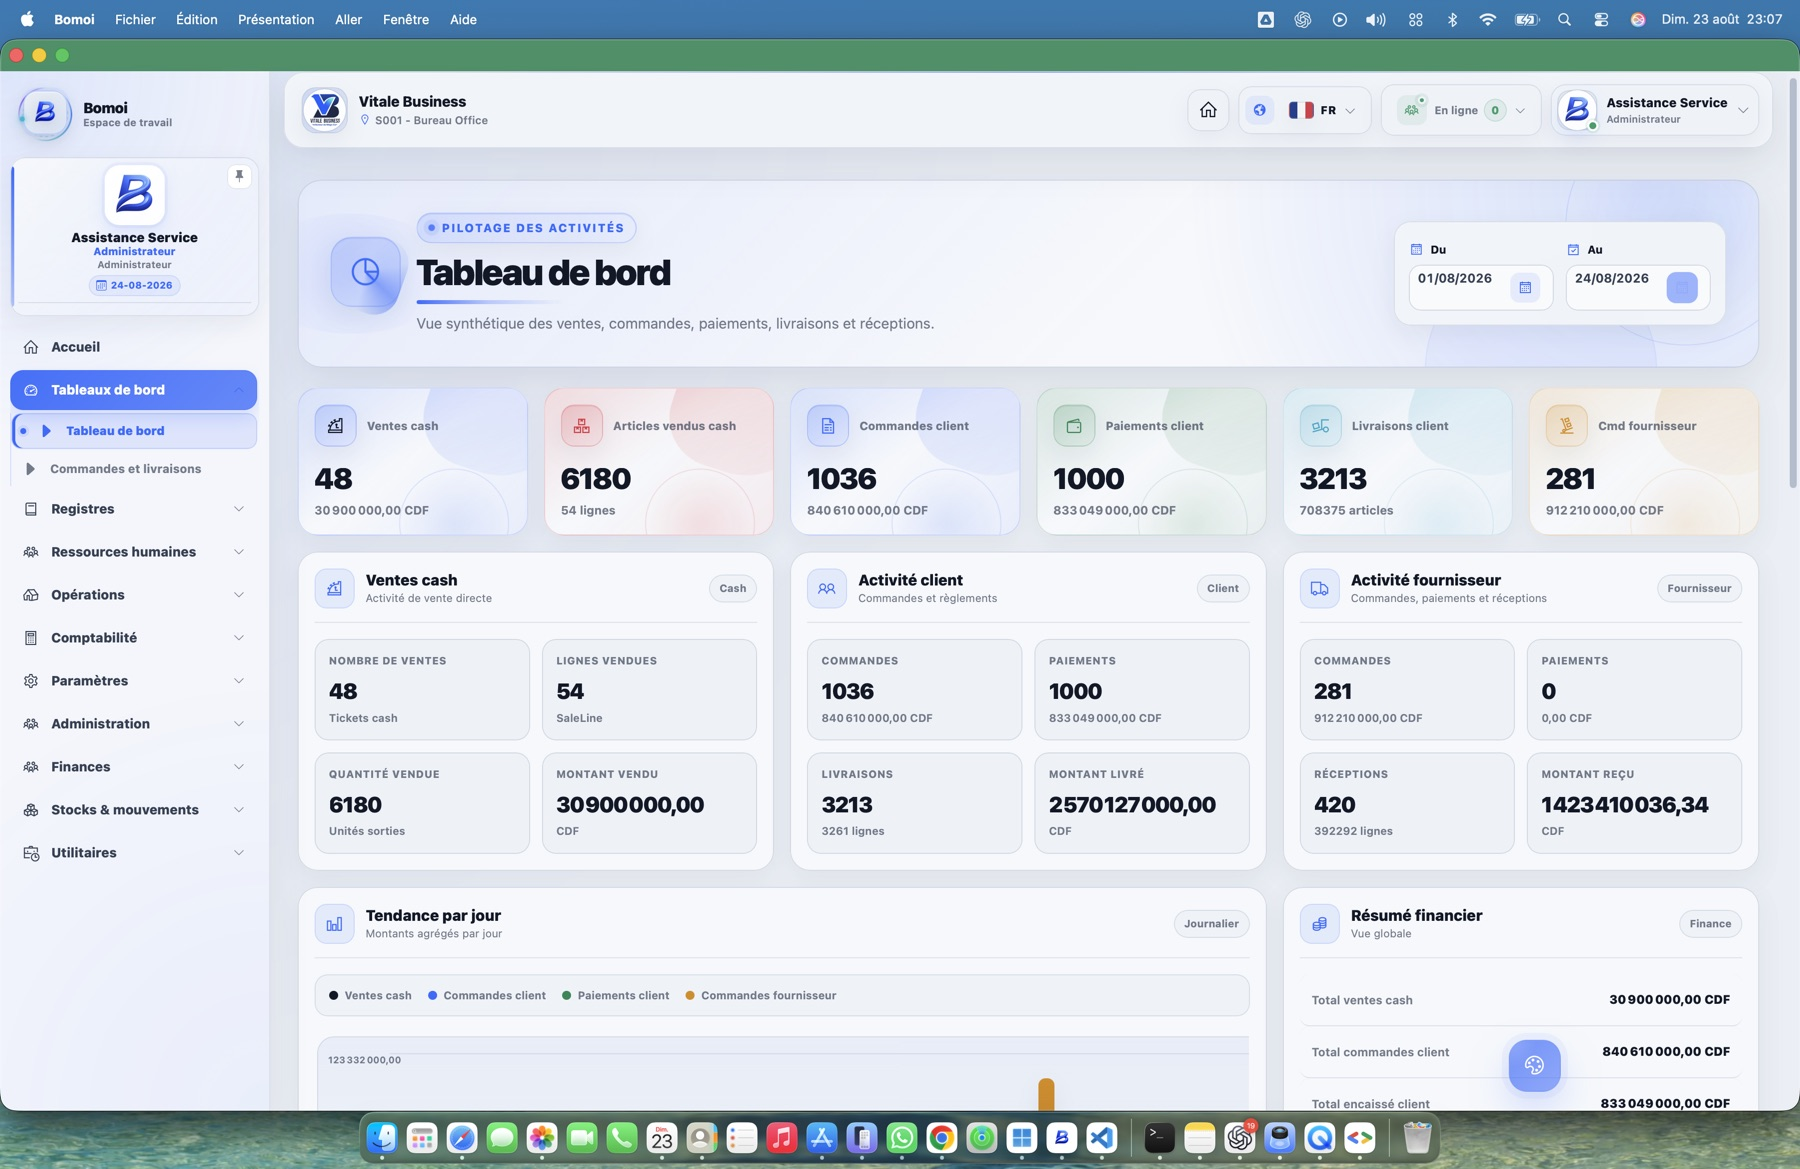
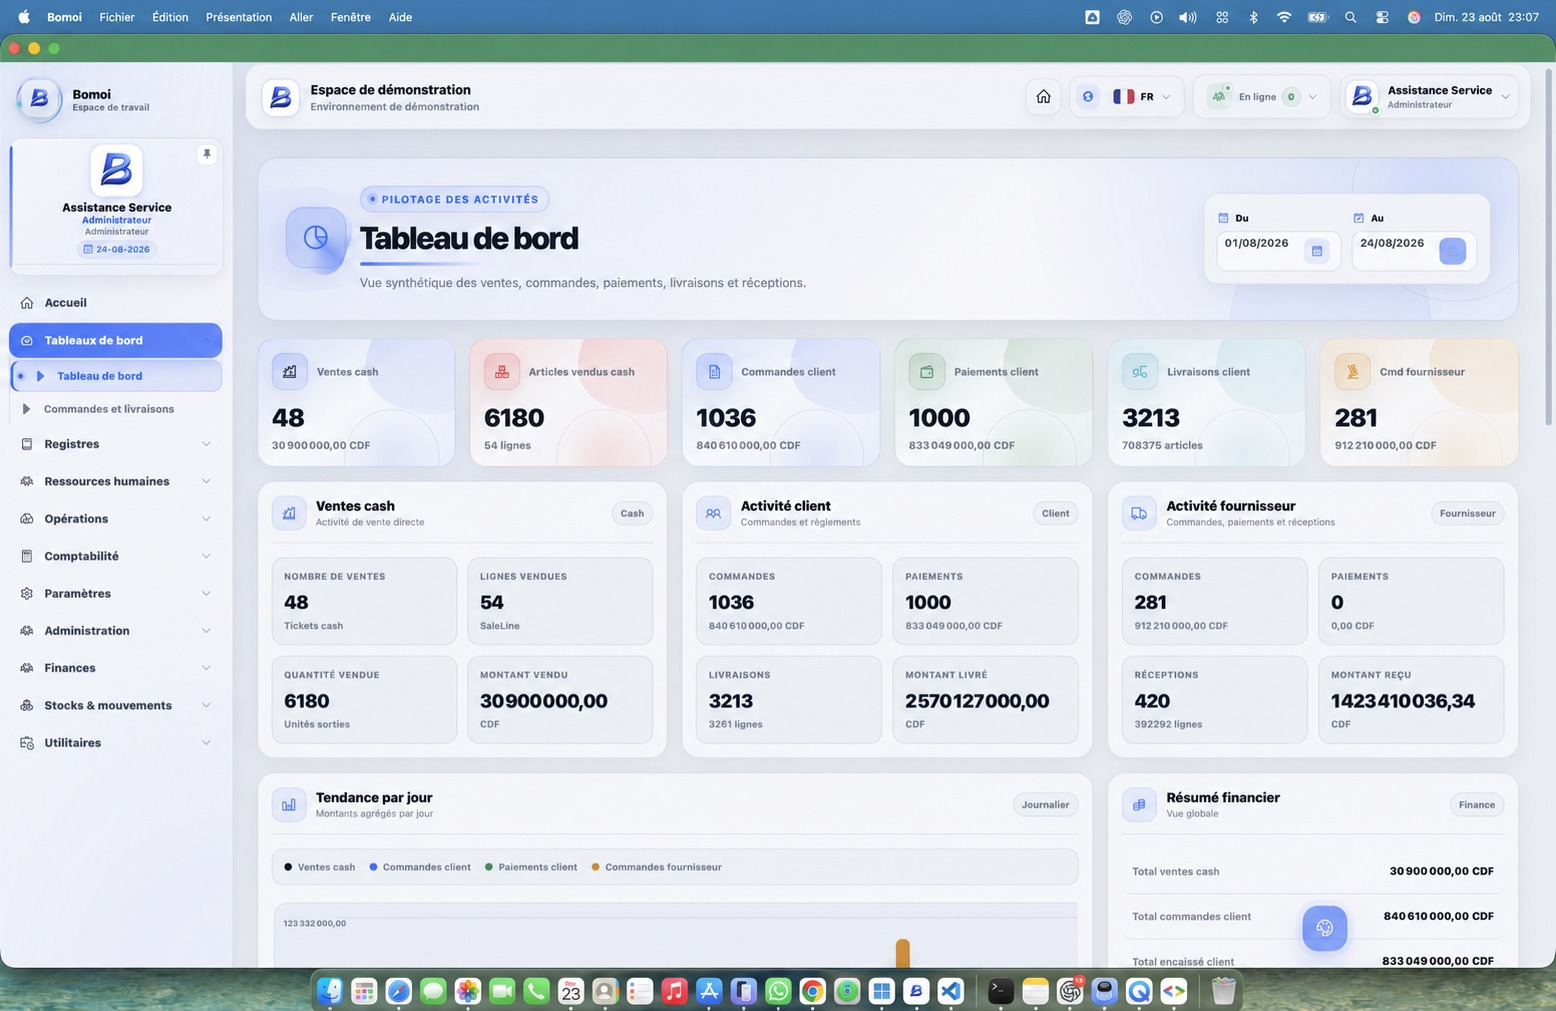
Anonymize client identity in product imagery

diff --git a/app/BomoiSite.tsx b/app/BomoiSite.tsx
@@ -158,7 +158,6 @@ const sectors = ["Commerces & supermarchés", "Distribution", "Pharmacies", "Dé
 const trustedPartners = [
   { name: "Congo Build", logo: "/partner-congo-build.jpeg", tone: "dark", sector: "Construction", strength: "Gestion", strengthLabel: "Centralisée", scope: "Suivi", scopeLabel: "En temps réel" },
   { name: "Cure Pharma", logo: "/partner-cure-pharma.png", tone: "light", sector: "Pharmacie & santé", strength: "Stocks", strengthLabel: "Maîtrisés", scope: "Traçabilité", scopeLabel: "Renforcée" },
-  { name: "Vitale Business", logo: "/partner-vitale-business.jpeg", tone: "light", sector: "Commerce & distribution", strength: "Opérations", strengthLabel: "Connectées", scope: "Pilotage", scopeLabel: "Consolidé" },
 ];
 
 function TrustedPartnersSlider(){
